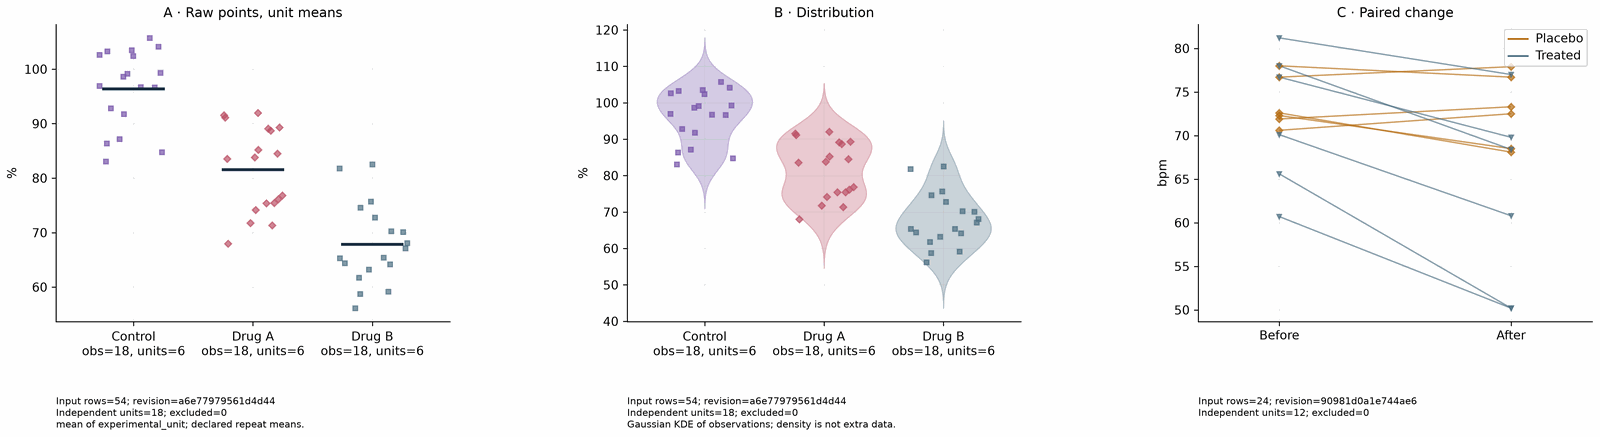
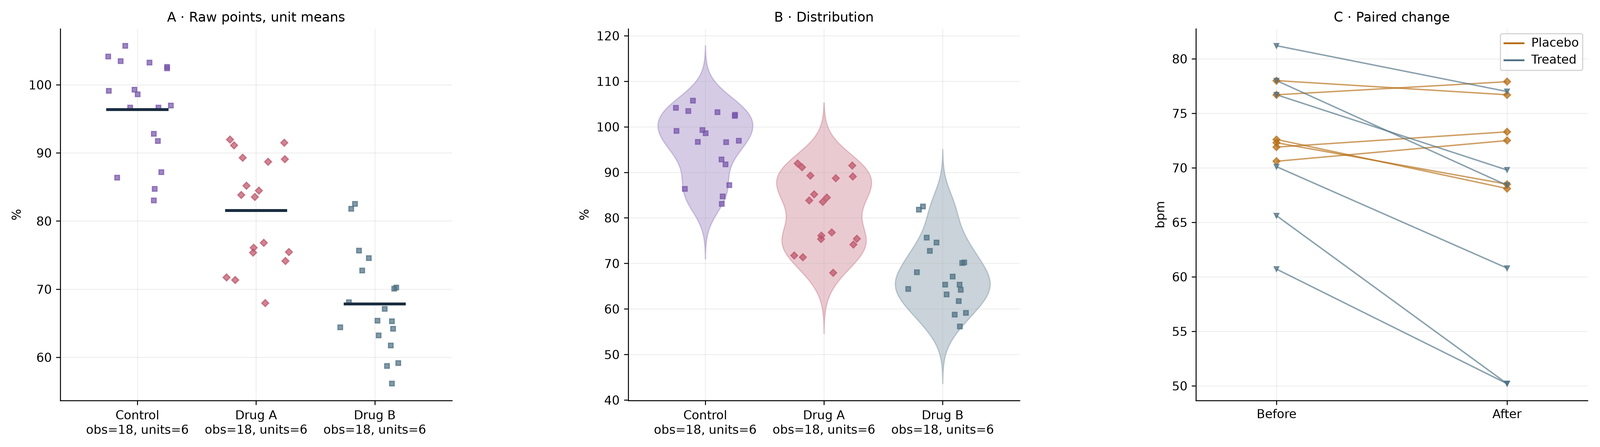
docs(release): show the 2.4.0 figure export in the README
The three-panel README figure is exported again from the same synthetic data, now without the provenance footer and with the panels in its space. The notes and changelog say the panels take that space, and drop it from the known issues.

diff --git a/V2.0/RELEASE_NOTES_V2.4.md b/V2.0/RELEASE_NOTES_V2.4.md
@@ -28,8 +28,8 @@ V2.4 gives every chart one drawing plan. The server works out every number that 
 - One panel can overlay several saved charts of the same data, for example raw points over a violin.
 - Exported PDFs embed TrueType fonts and SVGs keep their text as text, so journals that refuse Type 3 fonts accept them and the text stays editable. Chinese labels carry their glyphs in the SVG. PNG output is unchanged.
 - A figure's text can be set in DejaVu Sans (the default, as before), Arial or Times New Roman.
-- Figures no longer print the input rows, revision and method lines under each panel; they stay in the output notes, and a switch prints them again. The count line under category names can be turned off.
-- Figures from V2.3 open unchanged. Saved again, they get the embedded fonts and lose the footer; the drawing is otherwise the same.
+- Figures no longer print the input rows, revision and method lines under each panel; they stay in the output notes, and a switch prints them again. The panels take the space the lines used. The count line under category names can be turned off.
+- Figures from V2.3 open unchanged. Saved again, they get the embedded fonts and lose the footer, and their panels grow into the space it used.
 - Fixed: in a classic chart of more than 250 rows captured into a figure, most points linked to the wrong source row. Captures saved earlier keep their stored links.
 
 **Editing.**
@@ -70,7 +70,6 @@ Download the setup file and `SHA256SUMS.txt` from the release, check the SHA-256
 - With 100,000 rows per panel, composed figures are slower than their targets: a four-panel export takes about 17 seconds and a six-panel one about 25 (targets 8 and 10 seconds), and recalculating a strip or violin chart takes 5 to 6 seconds (target 3). At 10,000 rows every target is met.
 - Reopening a saved project of 100,000 rows with a four-panel figure took about 3.5 seconds in testing, and once more than 5; V2.3.0 took about 1.3 seconds. The cause is not known yet.
 - With the footer switched on, a narrow custom figure canvas can overlap category names, the count line and the footer.
-- With the footer off, a figure keeps the space the footer used at its bottom; at the default canvas size about a fifth of a one-row figure is empty.
 - Chinese labels are drawn in a thin weight of the bundled font.
 - In the figure editor the interactive panel views draw text in the app font; the composed figure shows the chosen font.
 - A paired chart without a group column lists one legend entry named "Undeclared".

diff --git a/CHANGELOG.md b/CHANGELOG.md
@@ -8,7 +8,7 @@
 - 新保存的研究单图可以悬停看数值、缩放，点数据点定位到来源行。超过 20,000 个观测的图和 V2.4 之前保存的图仍显示保存的图片。
 - 导出画出全部数据：折线、散点、柱状图此前超过 250 行时只画 250 个点，现在画全部行（预览仍抽稀到 250 点并保留峰值）；3D 曲面导出画整张网格（此前最多 2,000 点，可能漏掉尖峰）；热图颜色范围固定为 −1 到 1、第一行在上；关闭网格对曲面导出也生效。
 - 组合图：最多六个面板，网格或自由拼版，允许三面板；每个面板可设 log10／symlog 坐标、手动范围和刻度，可加文字、参考线、阴影区间和括号标注；一个面板可以叠加同一份数据的多张已保存图（例如原始点叠在小提琴图上）。V2.3 的组合图原样打开。
-- 投稿导出：研究单图和组合图的 PDF 嵌入 TrueType 字体（不再是 Type 3），SVG 保留可编辑文字，中文标签的字形随 SVG 一起嵌入；PNG 不变。组合图可选 DejaVu Sans（默认）、Arial 或 Times New Roman。面板下方不再印输入行数、修订号和方法说明，这些内容留在输出说明里，需要时可以打开；分类名下的计数行可以关闭。V2.3 和 V2.4 的组合图重新保存后按新规则导出，其余画面不变。
+- 投稿导出：研究单图和组合图的 PDF 嵌入 TrueType 字体（不再是 Type 3），SVG 保留可编辑文字，中文标签的字形随 SVG 一起嵌入；PNG 不变。组合图可选 DejaVu Sans（默认）、Arial 或 Times New Roman。面板下方不再印输入行数、修订号和方法说明，这些内容留在输出说明里，需要时可以打开，面板随之占用腾出的空间；分类名下的计数行可以关闭。V2.3 和 V2.4 的组合图重新保存后按新规则导出。
 - 修正：超过 250 行的经典图捕获进组合图后，多数点击目标指向了错误的来源行；此前保存的捕获保留原有链接。
 - 图表设置分成数据、方法、外观三个标签页；只改颜色、标签等外观时直接重画，不再重新计算。组合图布局可以撤销和重做。删去了重复界面已有信息的说明文字。
 - 过大的组合图（单边超过 32,768 像素或超过 2 亿像素）在保存前拒绝；接近数值上限的坐标范围给出拒绝而不是出错；缺字体或服务忙导致的组合图生成失败可以重试；交互视图加载失败时界面会说明。
